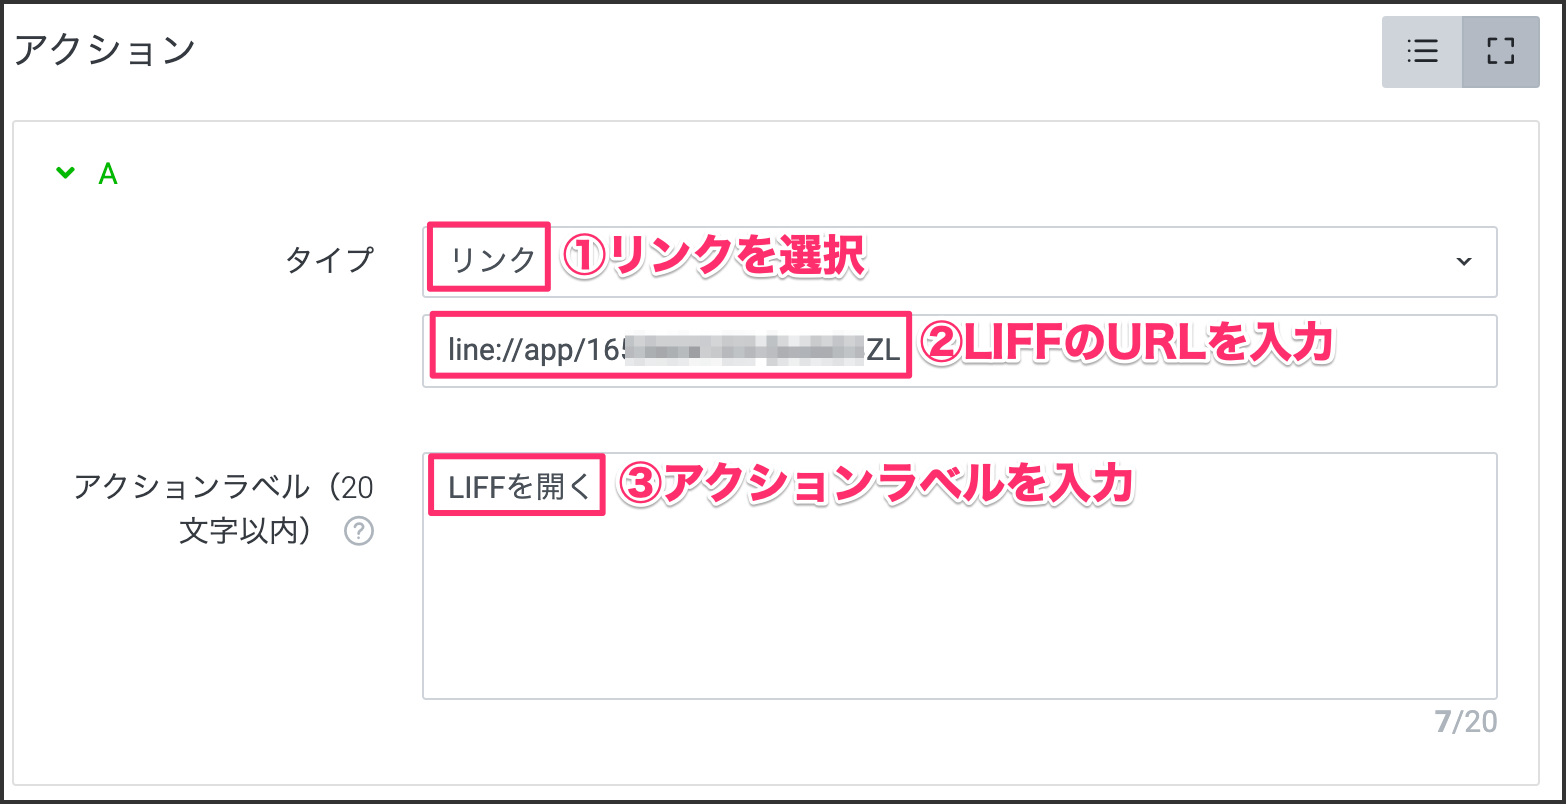
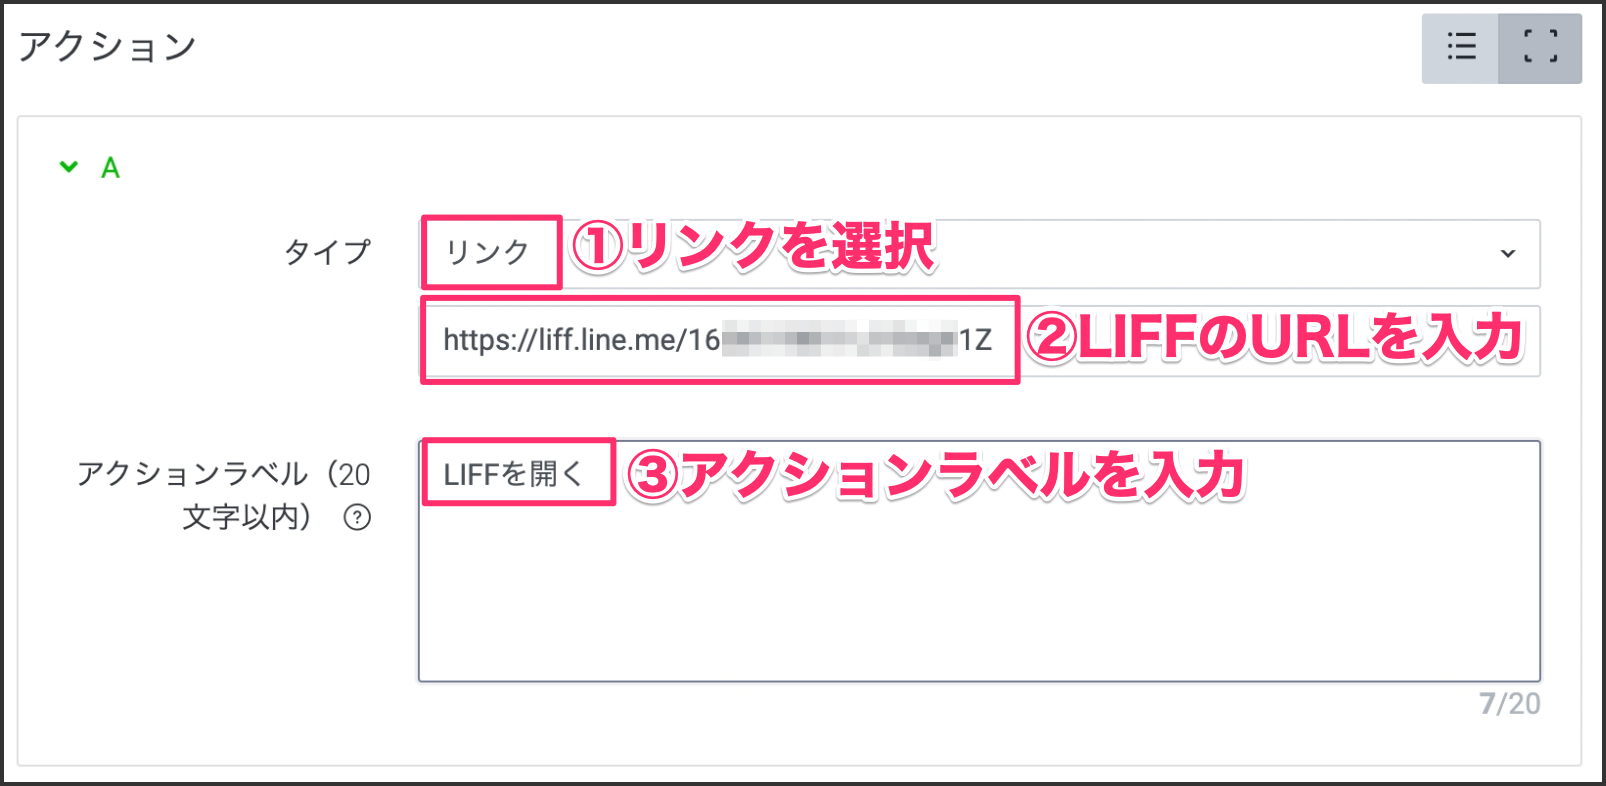
画像更新

diff --git a/liff-v2-handson-playground/step1.md b/liff-v2-handson-playground/step1.md
@@ -59,6 +59,6 @@ LINEログインをクリックします。
 
 ![s210](https://raw.githubusercontent.com/gaomar/katacoda-scenarios/master/liff-v2-handson-playground/images/s210.png)
 
-LIFFのIDが生成されるので、赤枠の値をメモしておきます。
+LIFFのIDが生成されるので、 `https://liff.line.me/xxxxxxxxxx-xxxxxxxx` 赤枠の値をメモしておきます。
 
 ![s211](https://raw.githubusercontent.com/gaomar/katacoda-scenarios/master/liff-v2-handson-playground/images/s211.png)

diff --git a/liff-v2-handson-playground/step3.md b/liff-v2-handson-playground/step3.md
@@ -60,7 +60,7 @@ LIFFタイトルと日付を設定します。
 |項目|値|
 |:--|:--|
 |①タイプ|リンク|
-|②URL|1-2で生成されたLIFFのURLを指定する<br>例）line://app/xxxxxxxxxx-xxxxxxxx|
+|②URL|1-2で生成されたLIFFのURLを指定する<br>例）https://liff.line.me/xxxxxxxxxx-xxxxxxxx|
 |③アクションラベル|LIFFを開く|
 
 ![s409](https://raw.githubusercontent.com/gaomar/katacoda-scenarios/master/liff-v2-handson-playground/images/s409.png)
